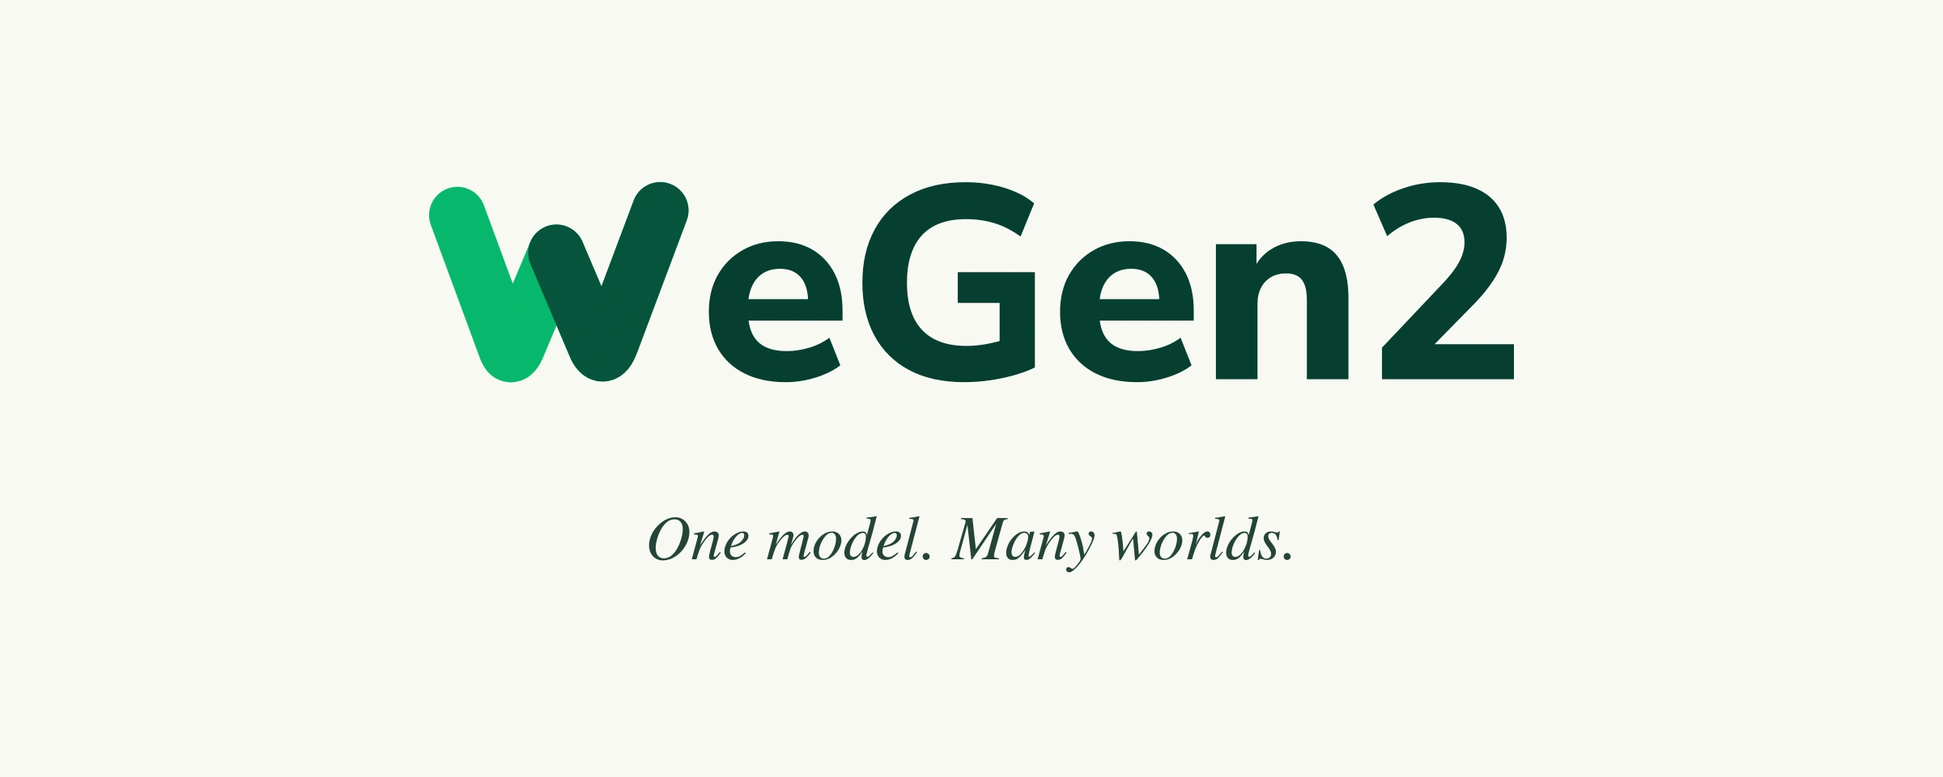
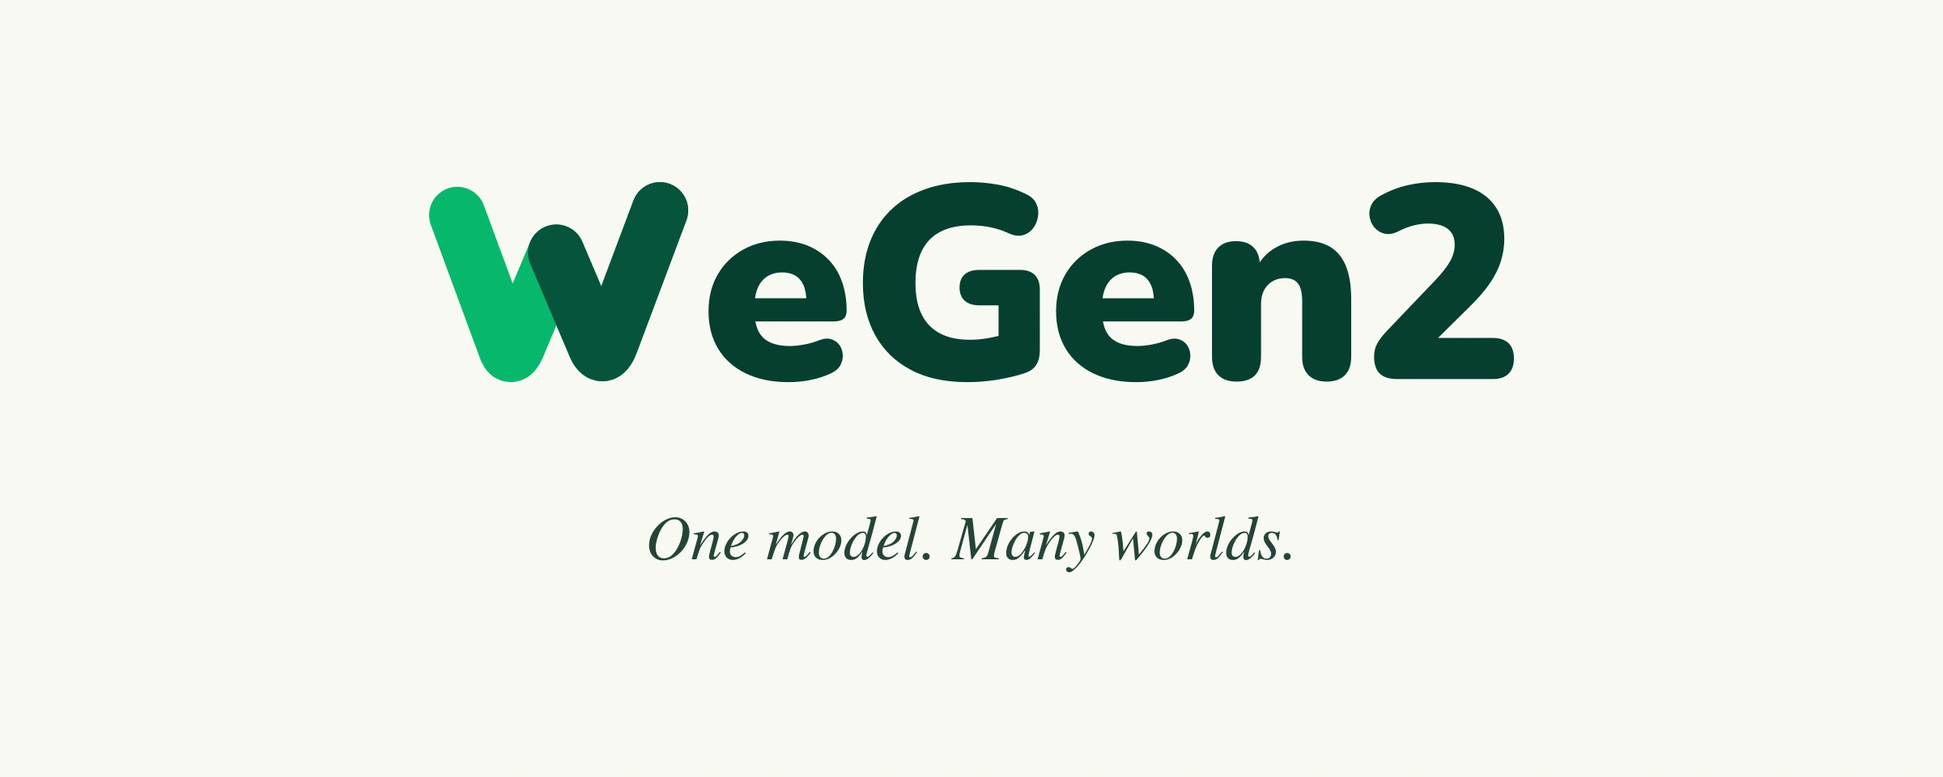
feat: Round the eGen2 lettering to match the W

diff --git a/WeGen2/index.html b/WeGen2/index.html
@@ -11,13 +11,13 @@
     <link rel="canonical" href="https://zhuangshaobin.github.io/WeGen2/" />
     <meta property="og:title" content="WeGen2 — Native Pixel-Space Multimodal Creation" />
     <meta property="og:description" content="Bring an idea. See where it goes. Image generation, editing and composition with WeGen2." />
-    <meta property="og:image" content="https://zhuangshaobin.github.io/WeGen2/assets/release-cover.webp?v=20261119inlinew" />
+    <meta property="og:image" content="https://zhuangshaobin.github.io/WeGen2/assets/release-cover.webp?v=20261119roundtype" />
     <meta property="og:type" content="website" />
     <meta name="twitter:card" content="summary_large_image" />
     <meta name="theme-color" content="#f8f9f3" />
     <meta name="robots" content="noindex,nofollow" />
-    <link rel="icon" type="image/svg+xml" href="assets/wegen2-favicon.svg?v=20261119inlinew" />
-    <link rel="apple-touch-icon" sizes="180x180" href="assets/wegen2-apple-touch-icon.png?v=20261119inlinew" />
+    <link rel="icon" type="image/svg+xml" href="assets/wegen2-favicon.svg?v=20261119roundtype" />
+    <link rel="apple-touch-icon" sizes="180x180" href="assets/wegen2-apple-touch-icon.png?v=20261119roundtype" />
     <!-- INLINE_STYLE_START -->
     <style>
       :root {
@@ -2099,7 +2099,7 @@
     <a class="skip-link" href="#main">Skip to content</a>
     <header class="site-header">
       <a class="wordmark" href="#main" aria-label="WeGen2 home"
-        ><img alt="WeGen2" decoding="async" width="365" height="88" src="assets/wegen2-wordmark.svg?v=20261119inlinew"
+        ><img alt="WeGen2" decoding="async" width="365" height="88" src="assets/wegen2-wordmark.svg?v=20261119roundtype"
       /></a>
       <nav aria-label="Main navigation">
         <a href="#capabilities">Explore</a><a href="#film">Film</a><a href="#method">The model</a
@@ -2112,8 +2112,8 @@
         <h1 id="hero-title" aria-label="WeGen2">
           <svg class="hero-wordmark" xmlns="http://www.w3.org/2000/svg" width="365" height="88" viewBox="0 20 365 88" role="img" aria-label="WeGen2">
             <title>WeGen2</title>
-            <desc>The rounded two-tone W forms the first letter of WeGen2.</desc>
-            <g data-brand-initial="W" transform="translate(0.465048 17.437086) scale(0.75349522)">
+            <desc>The two-tone rounded W joins softly rounded eGen2 lettering in one wordmark.</desc>
+            <g xmlns="http://www.w3.org/2000/svg" data-brand-initial="W" transform="translate(0.465048 17.437086) scale(0.75349522)">
               <g aria-label="W">
                 <path
                   d="M22 32 L43 89 Q45 94 48 86 L64 48 L81 88 Q84 94 87 86 L108 30"
@@ -2133,31 +2133,31 @@
                 />
               </g>
             </g>
-            <g data-brand-rest="eGen2" transform="translate(-141.717374 0)" fill="#073F32">
+            <g data-brand-rest="eGen2" data-typeface="Nunito Rounded" fill="#073F32">
               <path
-                xmlns="http://www.w3.org/2000/svg"
-                transform="translate(236.14375 94) scale(0.08800000 -0.08800000)"
-                d="M312.89111328125 -10.62646484375Q226.445556640625 -10.62646484375 163.7830810546875 20.686767578125Q101.12060546875 52 67.36767578125 109.4698486328125Q33.61474609375 166.939697265625 33.61474609375 245.2529296875Q33.61474609375 321.2529296875 66.054443359375 378.566162109375Q98.494140625 435.87939453125 155.560302734375 468.5360107421875Q212.62646484375 501.192626953125 285.505859375 501.192626953125Q357.698486328125 501.192626953125 409.7344970703125 470.566162109375Q461.7705078125 439.939697265625 490.3668212890625 383.8433837890625Q518.963134765625 327.7470703125 518.963134765625 250.807373046875V212.86767578125H158.107177734375V290.819091796875H409.9765625L394.289794921875 277.072021484375Q394.289794921875 338.180908203125 367.7353515625 369.669189453125Q341.180908203125 401.157470703125 292.072021484375 401.157470703125Q255.39697265625 401.157470703125 229.1859130859375 384.163330078125Q202.974853515625 367.169189453125 189.1976318359375 335.2713623046875Q175.42041015625 303.37353515625 175.42041015625 257.819091796875V250.192626953125Q175.42041015625 198.951416015625 190.854248046875 166.2403564453125Q206.2880859375 133.529296875 237.7822265625 117.8785400390625Q269.2763671875 102.227783203125 316.14404296875 102.227783203125Q355.89111328125 102.227783203125 397.0477294921875 114.2579345703125Q438.204345703125 126.2880859375 471.2646484375 150.7822265625L510.963134765625 50.494140625Q474.39697265625 22.433837890625 420.457275390625 5.9036865234375Q366.517578125 -10.62646484375 312.89111328125 -10.62646484375Z"
+                data-letter="e"
+                transform="translate(94.823714 94.007999) scale(0.088118835 -0.087965955)"
+                d="M320.048095703125 -11.277099609375Q230.0240478515625 -11.277099609375 164.59637451171875 20.3614501953125Q99.168701171875 52 64.114501953125 109.95782470703125Q29.060302734375 167.9156494140625 29.060302734375 246.55419921875Q29.060302734375 322.55419921875 62.4759521484375 380.1927490234375Q95.8916015625 437.831298828125 154.5843505859375 470.65057373046875Q213.277099609375 503.4698486328125 288.1083984375 503.4698486328125Q343.3011474609375 503.4698486328125 387.993896484375 485.51202392578125Q432.6866455078125 467.55419921875 464.7408447265625 434.277099609375Q496.7950439453125 401 513.5721435546875 353.90362548828125Q530.3492431640625 306.8072509765625 530.3492431640625 248.5301513671875Q530.3492431640625 228.614501953125 519.1263427734375 219.114501953125Q507.9034423828125 209.614501953125 484.264892578125 209.614501953125H177.9515380859375V293.7469482421875H399.56640625L384.2049560546875 281.3011474609375Q384.2049560546875 317.722900390625 373.897705078125 341.060302734375Q363.5904541015625 364.397705078125 344.15667724609375 376.10858154296875Q324.722900390625 387.8194580078125 296.3011474609375 387.8194580078125Q265.156494140625 387.8194580078125 242.36126708984375 373.4278564453125Q219.5660400390625 359.0362548828125 207.57806396484375 330.87957763671875Q195.590087890625 302.722900390625 195.590087890625 260.7469482421875V252.4698486328125Q195.590087890625 181.3251953125 227.0660400390625 150.72271728515625Q258.5419921875 120.1202392578125 324.602294921875 120.1202392578125Q346.77099609375 120.1202392578125 375.439697265625 125.3431396484375Q404.1083984375 130.5660400390625 429.9156494140625 140.819091796875Q456.0240478515625 150.9034423828125 475.216796875 144.61431884765625Q494.4095458984375 138.3251953125 504.86737060546875 122.89752197265625Q515.3251953125 107.4698486328125 516.3673706054688 87.54217529296875Q517.4095458984375 67.614501953125 507.03607177734375 49.4217529296875Q496.66259765625 31.22900390625 473.55419921875 20.8675537109375Q439.1927490234375 4.614501953125 399.75897216796875 -3.331298828125Q360.3251953125 -11.277099609375 320.048095703125 -11.277099609375Z"
               />
               <path
-                xmlns="http://www.w3.org/2000/svg"
-                transform="translate(283.75625 94) scale(0.08800000 -0.08800000)"
-                d="M420.072021484375 -10.62646484375Q300.87939453125 -10.62646484375 218.5 34.0Q136.12060546875 78.62646484375 93.0242919921875 159.62646484375Q49.927978515625 240.62646484375 49.927978515625 350.060302734375Q49.927978515625 462.060302734375 94.6507568359375 544.0301513671875Q139.37353515625 626 223.505859375 670.813232421875Q307.63818359375 715.62646484375 425.336669921875 715.62646484375Q475.0234375 715.62646484375 521.14990234375 706.439697265625Q567.2763671875 697.2529296875 606.589599609375 680.0360107421875Q645.90283203125 662.819091796875 673.589599609375 638.698486328125L624.324951171875 518.33837890625Q577.63818359375 551.892822265625 529.89111328125 566.639892578125Q482.14404296875 581.386962890625 425.963134765625 581.386962890625Q319.2880859375 581.386962890625 265.546875 522.025146484375Q211.8056640625 462.663330078125 211.8056640625 350.060302734375Q211.8056640625 237.39697265625 266.5770263671875 179.1917724609375Q321.348388671875 120.986572265625 428.2646484375 120.986572265625Q463.566162109375 120.986572265625 501.7470703125 128.046875Q539.927978515625 135.107177734375 577.36181640625 147.854248046875L548.289794921875 84.589599609375V277.2294921875H396.313232421875V388.830810546875H676.2763671875V42.62646484375Q641.7705078125 26 599.330810546875 14.186767578125Q556.89111328125 2.37353515625 511.1080322265625 -4.12646484375Q465.324951171875 -10.62646484375 420.072021484375 -10.62646484375Z"
+                data-letter="G"
+                transform="translate(142.730542 94.007999) scale(0.088118835 -0.087965955)"
+                d="M424.3011474609375 -11.277099609375Q302.831298828125 -11.277099609375 218.5 34.0Q134.168701171875 79.277099609375 89.93377685546875 160.277099609375Q45.6988525390625 241.277099609375 45.6988525390625 349.0843505859375Q45.6988525390625 433.0843505859375 72.114501953125 500.722900390625Q98.5301513671875 568.3614501953125 148.8614501953125 616.5Q199.1927490234375 664.6385498046875 271.62042236328125 690.4578247070312Q344.048095703125 716.277099609375 436.0721435546875 716.277099609375Q486.3251953125 716.277099609375 538.0360717773438 706.6083984375Q589.7469482421875 696.939697265625 640.385498046875 671.3251953125Q665.6866455078125 659.048095703125 675.3372192382812 637.6204223632812Q684.98779296875 616.1927490234375 681.6263427734375 592.3494262695312Q678.264892578125 568.506103515625 664.3914184570312 549.4820556640625Q650.5179443359375 530.4580078125 627.6324462890625 523.626708984375Q604.7469482421875 516.79541015625 575.8072509765625 529.7110595703125Q546.1083984375 544.0484619140625 511.25897216796875 551.4942626953125Q476.4095458984375 558.9400634765625 437.3492431640625 558.9400634765625Q370.373291015625 558.9400634765625 325.43951416015625 534.8677368164062Q280.5057373046875 510.79541015625 258.51776123046875 464.05438232421875Q236.52978515625 417.3133544921875 236.52978515625 349.0843505859375Q236.52978515625 247.156494140625 286.90936279296875 194.96966552734375Q337.2889404296875 142.7828369140625 434.77099609375 142.7828369140625Q465.1927490234375 142.7828369140625 500.44580078125 148.8671875Q535.6988525390625 154.9515380859375 571.506103515625 166.3973388671875L538.2049560546875 96.6263427734375V268.12060546875H468.43359375Q433.8553466796875 268.12060546875 415.2469482421875 284.951904296875Q396.6385498046875 301.783203125 396.6385498046875 332.722900390625Q396.6385498046875 364.0240478515625 415.2469482421875 380.493896484375Q433.8553466796875 396.9637451171875 468.43359375 396.9637451171875H616.1927490234375Q651.4095458984375 396.9637451171875 669.6986694335938 378.67462158203125Q687.98779296875 360.385498046875 687.98779296875 325.168701171875V103.87939453125Q687.98779296875 73.5782470703125 675.656494140625 52.831298828125Q663.3251953125 32.0843505859375 636.0240478515625 22.5301513671875Q588.831298828125 6.5301513671875 534.0662231445312 -2.37347412109375Q479.3011474609375 -11.277099609375 424.3011474609375 -11.277099609375Z"
               />
               <path
-                xmlns="http://www.w3.org/2000/svg"
-                transform="translate(348.35312 94) scale(0.08800000 -0.08800000)"
-                d="M312.89111328125 -10.62646484375Q226.445556640625 -10.62646484375 163.7830810546875 20.686767578125Q101.12060546875 52 67.36767578125 109.4698486328125Q33.61474609375 166.939697265625 33.61474609375 245.2529296875Q33.61474609375 321.2529296875 66.054443359375 378.566162109375Q98.494140625 435.87939453125 155.560302734375 468.5360107421875Q212.62646484375 501.192626953125 285.505859375 501.192626953125Q357.698486328125 501.192626953125 409.7344970703125 470.566162109375Q461.7705078125 439.939697265625 490.3668212890625 383.8433837890625Q518.963134765625 327.7470703125 518.963134765625 250.807373046875V212.86767578125H158.107177734375V290.819091796875H409.9765625L394.289794921875 277.072021484375Q394.289794921875 338.180908203125 367.7353515625 369.669189453125Q341.180908203125 401.157470703125 292.072021484375 401.157470703125Q255.39697265625 401.157470703125 229.1859130859375 384.163330078125Q202.974853515625 367.169189453125 189.1976318359375 335.2713623046875Q175.42041015625 303.37353515625 175.42041015625 257.819091796875V250.192626953125Q175.42041015625 198.951416015625 190.854248046875 166.2403564453125Q206.2880859375 133.529296875 237.7822265625 117.8785400390625Q269.2763671875 102.227783203125 316.14404296875 102.227783203125Q355.89111328125 102.227783203125 397.0477294921875 114.2579345703125Q438.204345703125 126.2880859375 471.2646484375 150.7822265625L510.963134765625 50.494140625Q474.39697265625 22.433837890625 420.457275390625 5.9036865234375Q366.517578125 -10.62646484375 312.89111328125 -10.62646484375Z"
+                data-letter="e"
+                transform="translate(205.994465 94.007999) scale(0.088118835 -0.087965955)"
+                d="M320.048095703125 -11.277099609375Q230.0240478515625 -11.277099609375 164.59637451171875 20.3614501953125Q99.168701171875 52 64.114501953125 109.95782470703125Q29.060302734375 167.9156494140625 29.060302734375 246.55419921875Q29.060302734375 322.55419921875 62.4759521484375 380.1927490234375Q95.8916015625 437.831298828125 154.5843505859375 470.65057373046875Q213.277099609375 503.4698486328125 288.1083984375 503.4698486328125Q343.3011474609375 503.4698486328125 387.993896484375 485.51202392578125Q432.6866455078125 467.55419921875 464.7408447265625 434.277099609375Q496.7950439453125 401 513.5721435546875 353.90362548828125Q530.3492431640625 306.8072509765625 530.3492431640625 248.5301513671875Q530.3492431640625 228.614501953125 519.1263427734375 219.114501953125Q507.9034423828125 209.614501953125 484.264892578125 209.614501953125H177.9515380859375V293.7469482421875H399.56640625L384.2049560546875 281.3011474609375Q384.2049560546875 317.722900390625 373.897705078125 341.060302734375Q363.5904541015625 364.397705078125 344.15667724609375 376.10858154296875Q324.722900390625 387.8194580078125 296.3011474609375 387.8194580078125Q265.156494140625 387.8194580078125 242.36126708984375 373.4278564453125Q219.5660400390625 359.0362548828125 207.57806396484375 330.87957763671875Q195.590087890625 302.722900390625 195.590087890625 260.7469482421875V252.4698486328125Q195.590087890625 181.3251953125 227.0660400390625 150.72271728515625Q258.5419921875 120.1202392578125 324.602294921875 120.1202392578125Q346.77099609375 120.1202392578125 375.439697265625 125.3431396484375Q404.1083984375 130.5660400390625 429.9156494140625 140.819091796875Q456.0240478515625 150.9034423828125 475.216796875 144.61431884765625Q494.4095458984375 138.3251953125 504.86737060546875 122.89752197265625Q515.3251953125 107.4698486328125 516.3673706054688 87.54217529296875Q517.4095458984375 67.614501953125 507.03607177734375 49.4217529296875Q496.66259765625 31.22900390625 473.55419921875 20.8675537109375Q439.1927490234375 4.614501953125 399.75897216796875 -3.331298828125Q360.3251953125 -11.277099609375 320.048095703125 -11.277099609375Z"
               />
               <path
-                xmlns="http://www.w3.org/2000/svg"
-                transform="translate(395.96562 94) scale(0.08800000 -0.08800000)"
-                d="M58.422119140625 0V490.566162109375H205.7939453125V398.517578125H194.7939453125Q217.733642578125 448.38525390625 263.2939453125 474.7889404296875Q308.854248046875 501.192626953125 366.601318359375 501.192626953125Q425.601318359375 501.192626953125 463.76653575067934 478.79390920474543Q501.9317531419837 456.3951914563658 520.7665357506794 410.4778200721877Q539.601318359375 364.5604486880095 539.601318359375 294.554443359375V0H388.60302734375V287.927978515625Q388.60302734375 322.169189453125 380.35595703125 343.35009765625Q372.10888671875 364.531005859375 355.6598909818209 374.46484375Q339.21089524489184 384.398681640625 313.7587890625 384.398681640625Q282.457275390625 384.398681640625 258.8277013442096 370.8428236607143Q235.19812729779412 357.2869656808036 222.30926872702207 332.38201729910713Q209.42041015625 307.4770689174107 209.42041015625 274.060302734375V0Z"
+                data-letter="n"
+                transform="translate(253.882131 94.007999) scale(0.088118835 -0.087965955)"
+                d="M140.4095458984375 -9.277099609375Q97.6385498046875 -9.277099609375 74.614501953125 13.92767333984375Q51.5904541015625 37.1324462890625 51.5904541015625 80.9034423828125V411.6507568359375Q51.5904541015625 455.4217529296875 74.29522705078125 478.44580078125Q97 501.4698486328125 138.77099609375 501.4698486328125Q180.5419921875 501.4698486328125 202.927490234375 478.44580078125Q225.31298828125 455.4217529296875 225.31298828125 411.6507568359375V365.3614501953125L214.31298828125 406.3251953125Q238.2286376953125 452.939697265625 282.81298828125 478.20477294921875Q327.3973388671875 503.4698486328125 383.8431396484375 503.4698486328125Q442.8431396484375 503.4698486328125 480.8431396484375 480.51202392578125Q518.8431396484375 457.55419921875 537.8431396484375 410.5Q556.8431396484375 363.44580078125 556.8431396484375 290.9759521484375V80.9034423828125Q556.8431396484375 37.1324462890625 533.819091796875 13.92767333984375Q510.7950439453125 -9.277099609375 468.0240478515625 -9.277099609375Q425.2530517578125 -9.277099609375 402.04827880859375 13.92767333984375Q378.843505859375 37.1324462890625 378.843505859375 80.9034423828125V283.6988525390625Q378.843505859375 328.56640625 363.40972900390625 347.86163330078125Q347.9759521484375 367.1568603515625 317.66259765625 367.1568603515625Q277.98779296875 367.1568603515625 253.7889404296875 341.5965576171875Q229.590087890625 316.0362548828125 229.590087890625 273.0843505859375V80.9034423828125Q229.590087890625 -9.277099609375 140.4095458984375 -9.277099609375Z"
               />
               <path
-                xmlns="http://www.w3.org/2000/svg"
-                transform="translate(447.62500 94) scale(0.08800000 -0.08800000)"
-                d="M74.36181640625 0V114.733642578125L294.531005859375 347.39697265625Q323.33837890625 377.89111328125 340.4288330078125 403.072021484375Q357.519287109375 428.2529296875 365.7362060546875 451.2772216796875Q373.953125 474.301513671875 373.953125 497.169189453125Q373.953125 541.2177734375 345.58544921875 563.9288330078125Q317.2177734375 586.639892578125 263.482421875 586.639892578125Q219.927978515625 586.639892578125 176.994140625 570.392822265625Q134.060302734375 554.145751953125 93.060302734375 519.651611328125L43.169189453125 634.445556640625Q87.048583984375 671.505859375 151.4581298828125 693.566162109375Q215.86767578125 715.62646484375 284.494140625 715.62646484375Q363.313232421875 715.62646484375 417.192626953125 692.1566162109375Q471.072021484375 668.686767578125 499.01171875 623.7470703125Q526.951416015625 578.807373046875 526.951416015625 514.2412109375Q526.951416015625 482.2412109375 519.7646484375 451.7412109375Q512.577880859375 421.2412109375 497.2344970703125 391.3978271484375Q481.89111328125 361.554443359375 458.2344970703125 330.36767578125Q434.577880859375 299.180908203125 400.951416015625 265.494140625L225.7939453125 87.03515625V127.2998046875H553.324951171875V0Z"
+                data-letter="2"
+                transform="translate(304.936831 94.007999) scale(0.088118835 -0.087965955)"
+                d="M143.8553466796875 0Q100.3614501953125 0 80.43377685546875 20.56622314453125Q60.506103515625 41.1324462890625 60.506103515625 81.264892578125Q60.506103515625 109.1202392578125 73.01812744140625 130.8671875Q85.5301513671875 152.6141357421875 106.3614501953125 174.4454345703125L280.5423583984375 357.156494140625Q320.1568603515625 398.77099609375 336.64483642578125 428.6927490234375Q353.1328125 458.614501953125 353.1328125 489.0362548828125Q353.1328125 526.90380859375 328.018310546875 546.1990356445312Q302.90380859375 565.4942626953125 255.6748046875 565.4942626953125Q231.8916015625 565.4942626953125 204.9156494140625 558.8677368164062Q177.939697265625 552.2412109375 146.77099609375 536.2652587890625Q120.4698486328125 523.626708984375 98.5843505859375 528.8194580078125Q76.6988525390625 534.01220703125 62.32537841796875 550.7591552734375Q47.951904296875 567.506103515625 44.27117919921875 589.5723266601562Q40.5904541015625 611.6385498046875 50.560302734375 633.2469482421875Q60.5301513671875 654.8553466796875 87.4698486328125 668.77099609375Q133.0240478515625 693.939697265625 182.6927490234375 705.1083984375Q232.3614501953125 716.277099609375 281.8916015625 716.277099609375Q363.6385498046875 716.277099609375 419.4698486328125 692.3192749023438Q475.3011474609375 668.3614501953125 504.216796875 622.44580078125Q533.1324462890625 576.5301513671875 533.1324462890625 510.33740234375Q533.1324462890625 467.6988525390625 520.5902709960938 428.01812744140625Q508.048095703125 388.33740234375 480.548095703125 347.9759521484375Q453.048095703125 307.614501953125 407.1324462890625 262.8916015625L245.31298828125 102.650390625V149.42138671875H492.060302734375Q529.277099609375 149.42138671875 548.7047729492188 130.35516357421875Q568.1324462890625 111.2889404296875 568.1324462890625 75.0721435546875Q568.1324462890625 38.8553466796875 548.7047729492188 19.42767333984375Q529.277099609375 0 492.060302734375 0Z"
               />
             </g>
           </svg>
@@ -2226,14 +2226,14 @@
             controls
             playsinline
             preload="none"
-            poster="assets/film-poster-v8.webp"
+            poster="assets/film-poster-v9.webp"
             width="1920"
             height="1080"
             aria-label="WeGen2 showcase and model introduction"
           >
-            <source src="assets/wegen2-film-v8-720.mp4" type="video/mp4" />
-            <track kind="captions" src="assets/film-captions-v8.vtt" srclang="en" label="English descriptions" />
-            Your browser does not support embedded video. <a href="assets/wegen2-film-v8.mp4">Download the film</a>.
+            <source src="assets/wegen2-film-v9-720.mp4" type="video/mp4" />
+            <track kind="captions" src="assets/film-captions-v9.vtt" srclang="en" label="English descriptions" />
+            Your browser does not support embedded video. <a href="assets/wegen2-film-v9.mp4">Download the film</a>.
           </video>
           <div class="film-start" hidden>
             <button id="film-start-button" type="button"><span aria-hidden="true">▷</span><span class="film-start-label">Play film</span></button>
@@ -2257,7 +2257,7 @@
                 <option value="360">360p</option>
               </select></label
             >
-            <a href="assets/wegen2-film-v8.mp4" download>Download 1080p ↗</a><a href="film-transcript.html?v=film8">Visual transcript ↗</a>
+            <a href="assets/wegen2-film-v9.mp4" download>Download 1080p ↗</a><a href="film-transcript.html?v=film9">Visual transcript ↗</a>
           </div>
         </div>
         <p class="fine-print">Model-generated images, presented through editorial motion design. Original instrumental score.</p>
@@ -2912,7 +2912,7 @@ next_image.save("paper-world-night.png")</code></pre>
     </main>
     <footer class="wrap">
       <a class="wordmark" href="#main" aria-label="WeGen2 home"
-        ><img alt="WeGen2" decoding="async" width="365" height="88" src="assets/wegen2-wordmark.svg?v=20261119inlinew"
+        ><img alt="WeGen2" decoding="async" width="365" height="88" src="assets/wegen2-wordmark.svg?v=20261119roundtype"
       /></a>
       <p>Native pixels. Multimodal context. Visual creation.</p>
       <a href="#main">Back to top ↑</a>
@@ -3210,15 +3210,15 @@ next_image.save("paper-world-night.png")</code></pre>
     </script>
     <script type="application/json" id="film-config-data">
       {
-        "mediaPath": "assets/film-hls-v8/",
+        "mediaPath": "assets/film-hls-v9/",
         "mirrors": [
-          "https://raw.githubusercontent.com/zhuangshaobin/zhuangshaobin.github.io/c1fba63b04322f03c61539adb21ffc6b2f7868e0/WeGen2/assets/film-hls-v8/",
-          "https://cdn.jsdelivr.net/gh/zhuangshaobin/zhuangshaobin.github.io@c1fba63b04322f03c61539adb21ffc6b2f7868e0/WeGen2/assets/film-hls-v8/"
+          "https://raw.githubusercontent.com/zhuangshaobin/zhuangshaobin.github.io/108e2c0736641d0e71617d600c9eb0e870025c63/WeGen2/assets/film-hls-v9/",
+          "https://cdn.jsdelivr.net/gh/zhuangshaobin/zhuangshaobin.github.io@108e2c0736641d0e71617d600c9eb0e870025c63/WeGen2/assets/film-hls-v9/"
         ],
         "library": "player/hls.light-1.7.4.min.js",
         "libraryFallback": "https://cdn.jsdelivr.net/npm/hls.js@1.7.4/dist/hls.light.min.js",
         "libraryIntegrity": "sha384-vpNtFjJmrPAaL9LfqByx3MxTVjqrtQ6Ue6UVNnFeghNrhE0uvpydDr3tkTVcBgDz",
-        "mp4Sources": { "480": "assets/wegen2-film-v8-480.mp4", "720": "assets/wegen2-film-v8-720.mp4", "1080": "assets/wegen2-film-v8.mp4" }
+        "mp4Sources": { "480": "assets/wegen2-film-v9-480.mp4", "720": "assets/wegen2-film-v9-720.mp4", "1080": "assets/wegen2-film-v9.mp4" }
       }
     </script>
     <!-- INLINE_DATA_END -->
